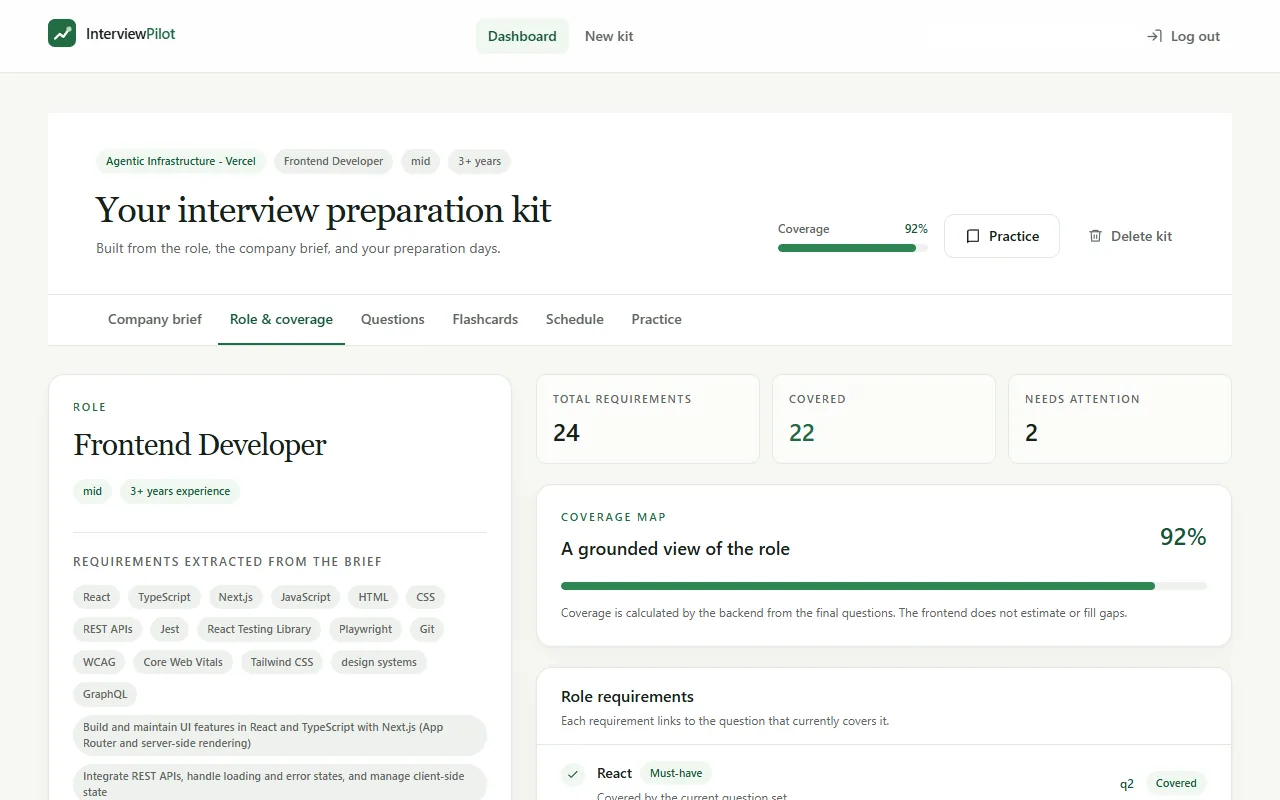
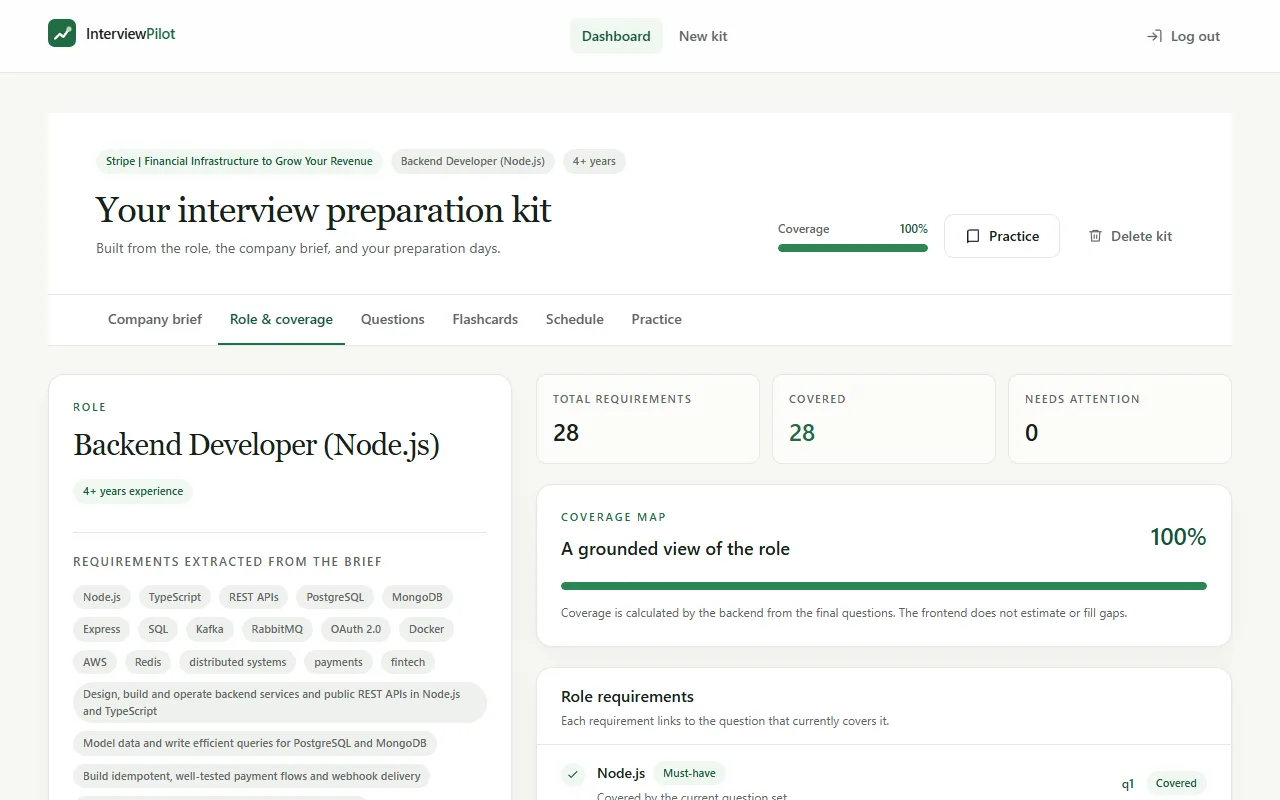
docs: refresh screenshots with clean demo data

diff --git a/README.md b/README.md
@@ -12,12 +12,14 @@ Paste a job description and get a complete interview preparation kit: the role's
 | --- | --- |
 | ![Landing page](docs/screenshots/landing.webp) | ![Dashboard with a saved kit](docs/screenshots/dashboard.webp) |
 | Landing page | Dashboard |
-| ![Kit generation in progress](docs/screenshots/new-kit-progress.webp) | ![Question bank](docs/screenshots/kit-questions.webp) |
-| Kit generation progress | Question bank |
-| ![Requirement coverage map](docs/screenshots/coverage-map.webp) | ![Study schedule](docs/screenshots/schedule.webp) |
-| Coverage map | Schedule |
-| ![Flashcards](docs/screenshots/flashcards.webp) | ![Practice mode](docs/screenshots/practice.webp) |
-| Flashcards | Practice mode |
+| ![Kit generation in progress](docs/screenshots/new-kit-progress.webp) | ![Company brief](docs/screenshots/kit-brief.webp) |
+| Kit generation progress | Company brief |
+| ![Question bank](docs/screenshots/kit-questions.webp) | ![Requirement coverage map](docs/screenshots/coverage-map.webp) |
+| Question bank | Coverage map |
+| ![Study schedule](docs/screenshots/schedule.webp) | ![Flashcards](docs/screenshots/flashcards.webp) |
+| Schedule | Flashcards |
+| ![Practice mode](docs/screenshots/practice.webp) | |
+| Practice mode | |
 
 <p>
   <img alt="Landing page on a phone" src="docs/screenshots/landing-mobile.webp" width="260" />
